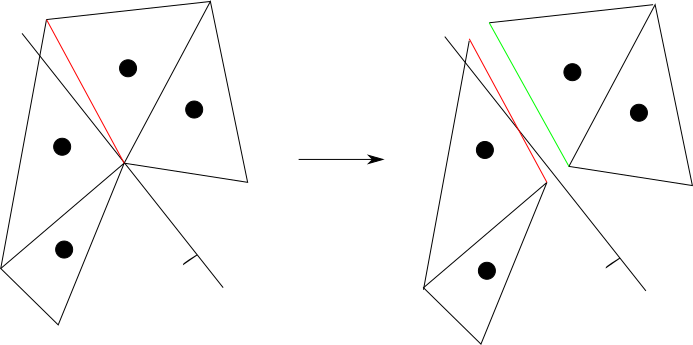
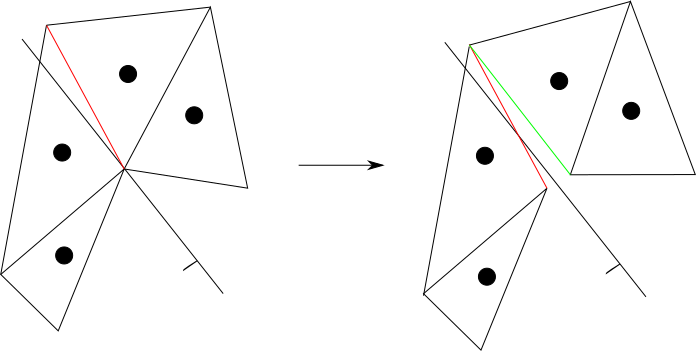
Fixed a couple of things

diff --git a/_posts/2019-10-13-cloth tearing.md b/_posts/2019-10-13-cloth tearing.md
@@ -21,7 +21,7 @@ In a particle system the triangles aren't necessary. They are used solely for re
 ray-casting.
 
 To make the algorithm simple to understand, I assume that you do not maintain a mesh adjacency structure for speeding up the process. 
-However, the algorithm showed here can be extended for maintaning such adjacencies. 
+However, the algorithm showed here can be extended for maintaning such a mesh. 
 
 # Splitting Vertex
 
@@ -37,7 +37,7 @@ with the desired edges and triangles.
 
 *I hope you enjoy my coder art. It was done entirely by myself.*
 
-The vertex splitting is the simplest technique for tearing a cloth. There are more advanced techniques that involves surface subdivision. 
+The vertex splitting technique is the simplest technique for tearing a cloth. There are more advanced techniques that involve surface subdivision. 
 I have tried edge splitting, but I can't recommend this technique because it can introduce triangles to the cloth that do not contribute to the quality of the simulation.
 
 # Splitting Plane
@@ -58,7 +58,7 @@ For example, if the length of an edge or the tension force exceeds a threshold v
 
 We need to determine the set of edges and triangles that will be attached to the new vertex originated from the splitting vertex.
 
-As you can see in the last picture, the splitting plane can be used to separated the triangles in two partition sets. One set containing the triangles 
+As you can see in the last picture, the splitting plane can be used to separate the triangles in two sets. One set containing the triangles 
 that are above the plane and the other containing the triangles that are below the plane. 
 
 In practice those partitions can be created by classifying the center of each triangle that contains the splitting vertex against the splitting plane. 
@@ -72,11 +72,10 @@ In practice those partitions can be created by classifying the center of each tr
 The first case we need to handle is the case where one of those triangle sets are empty. In this case our vertex splitting routine does nothing. There are no vertices 
 to split. Otherwise there is at least one triangle on each side of the plane and we must create a new vertex and start the feature attaching process explained below.
 
-In this algorithm our convention is to attach the edges and triangles that are below the plane to the new vertex. After we have 
+In this algorithm our convention is to attach the edges and triangles that are below the plane to the new vertex. Therefore, after we have 
 created the new vertex, we need to process each triangle that is below the separating plane.
 
-Therefore, for each triangle that is below the plane we must replace the original splitting vertex with the newly created vertex as showed in the 
-picture below. 
+For each triangle that is below the plane we must replace the original splitting vertex with the newly created vertex as showed in the picture below. 
 
 {:refdef: style="text-align: center;"}
 ![Feature Detaching](/assets/detaching.png) 
@@ -159,7 +158,7 @@ bool Tear()
 
 {% endhighlight %}
 
-So that the above function Tear() it can be called like so:
+So that the above function Tear() can be called like so:
 
 {% highlight cpp %}
 
@@ -169,8 +168,8 @@ while (Tear() == true);
 
 That is, it tries to split a particle until there is no particle to be split.
 
-Let us explain the main portions of code above. It loops over each spring in the cloth and then checks if the tension force has reached a tolerance.
-If this is true then it tries to split each particle along the tension axis. If a particle is not a dynamic particle then it skips that particle. (Decently 
+Let us explain the main portions of code above. It loops over each spring in the cloth and then it checks if the tension force has reached a tolerance.
+If this is true then it tries to separate one of the particles by the tension plane. If a particle is not a dynamic particle then it skips that particle. (Decently 
 designed cloth simulators have the concept of static, kinematic, and dynamic particles. Splitting kinematic and static particles can create visually 
 unpleasing results.) Then it repeats this process until there is no particle to be split.
 
